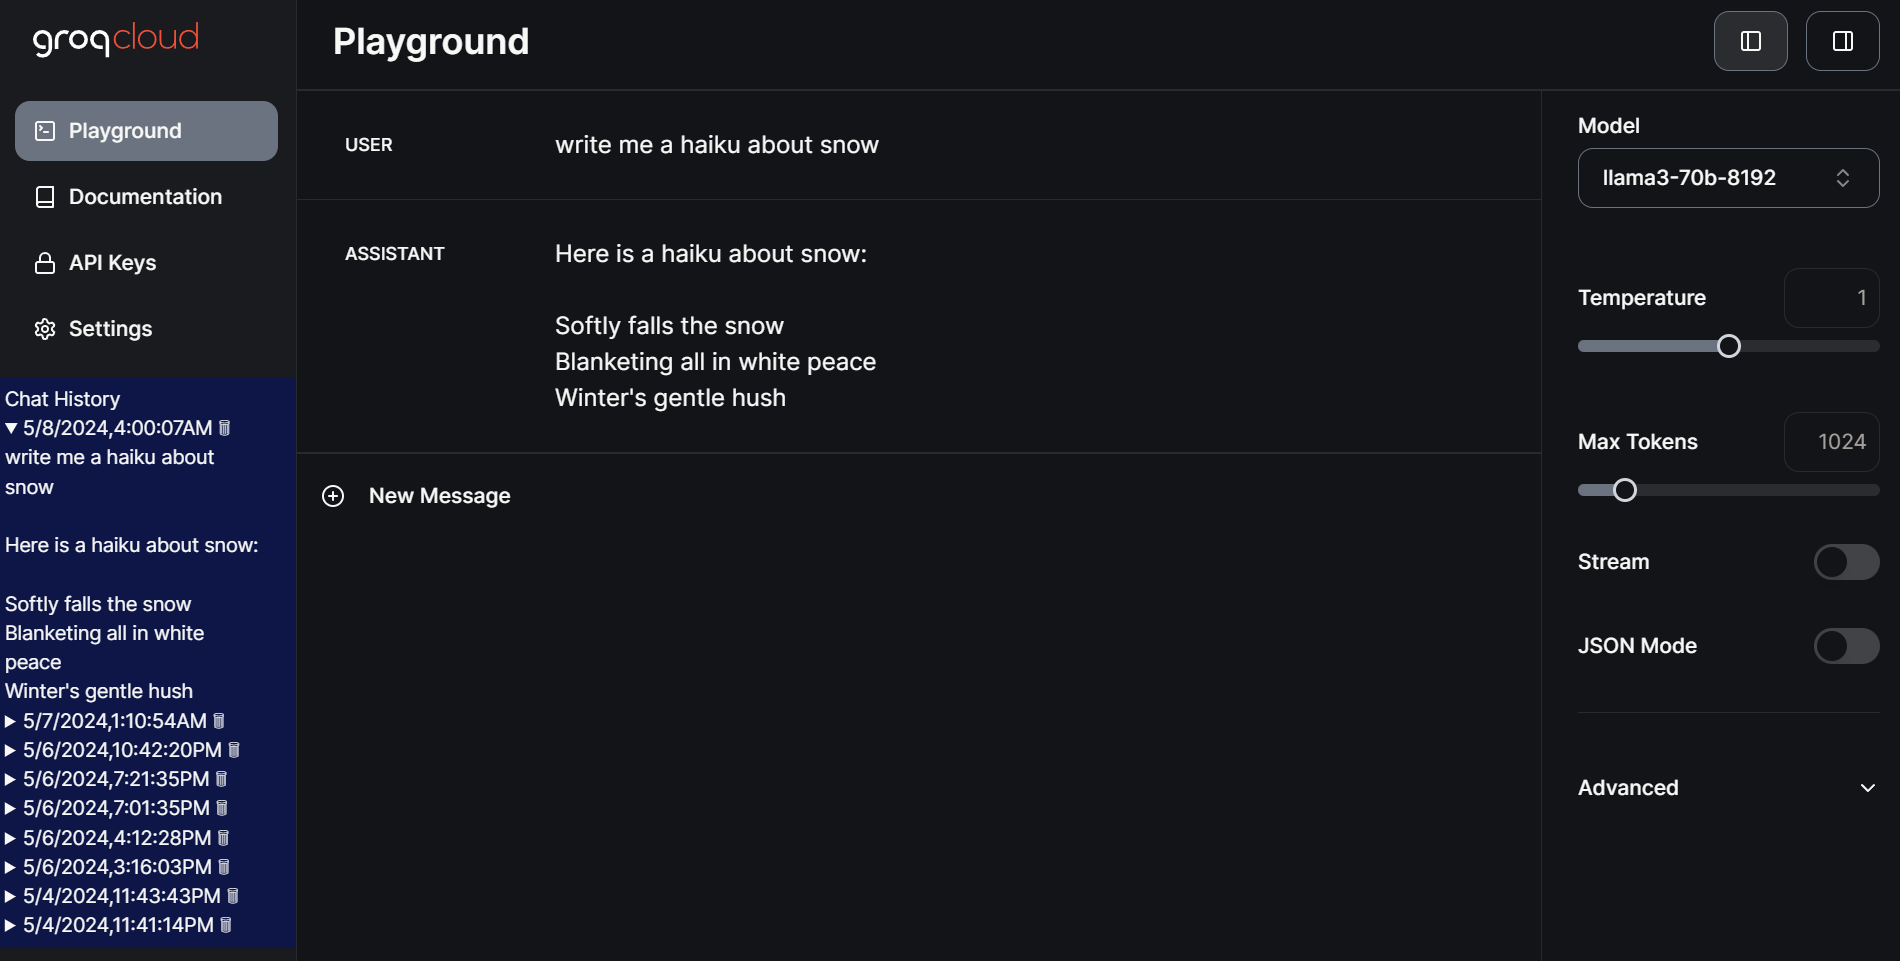
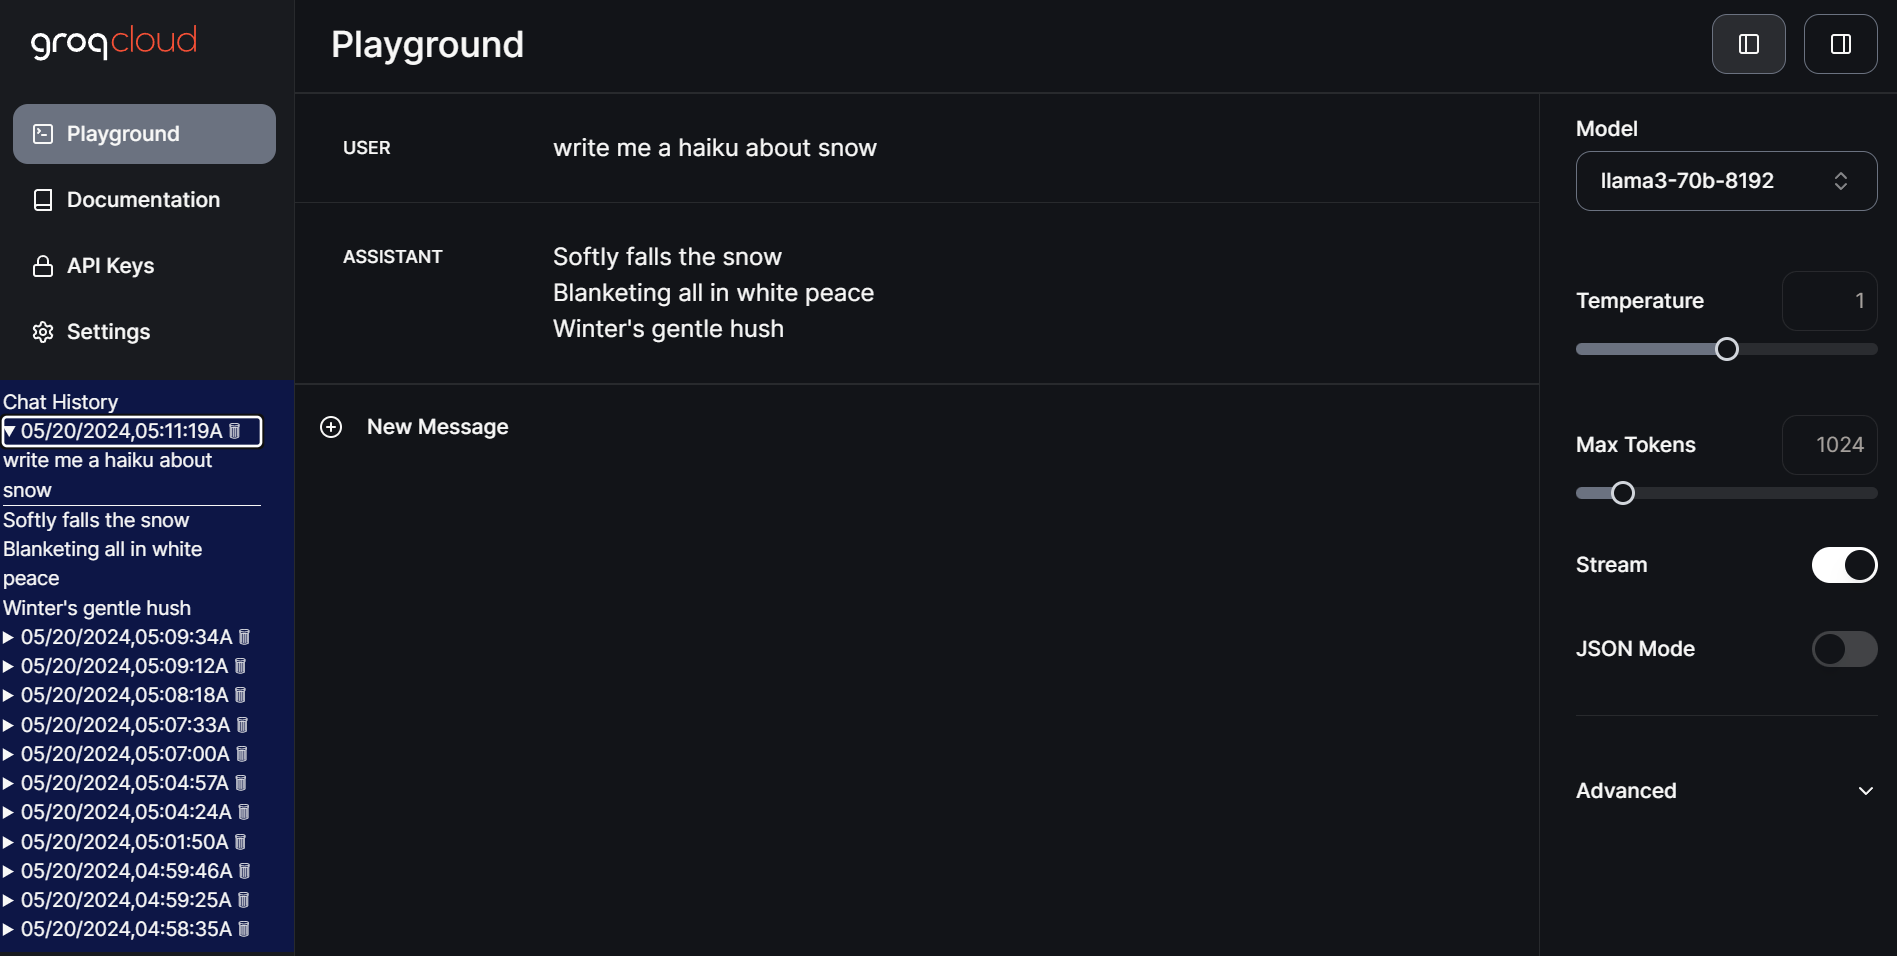
feat(stream) Support appending entries where Streaming tokens is enabled

diff --git a/groqcloud-playground-chat-history.js b/groqcloud-playground-chat-history.js
@@ -1,6 +1,6 @@
 // ==UserScript==
 // @name        Groqcloud Playground Chat History
-// @version     0.0.9
+// @version     0.1.0
 // @description Adds a Chat History on the sidebar of Groqcloud Playground with locally-stored deletable per-session entries
 // @author      Harris Lo
 // @website     https://github.com/hlo-world/groqcloud-playground-chat-history
@@ -14,9 +14,6 @@
 // ==/UserScript==
 
 $(document).ready(function() {
-    // This currently only works when Stream option is disabled
-    $('#toggle-Stream').click();
-
     // Check if dark mode is enabled
     var isDarkMode = $('.dark').length > 0;
 
@@ -25,7 +22,7 @@ $(document).ready(function() {
 
     // Set the formatted date for this session
     var date = new Date();
-    var formattedDate = date.toLocaleString('en-US').replace(/\s/g, '');
+    var formattedDate = date.toLocaleString('en-US', { month: '2-digit', day: '2-digit', year: 'numeric', hour: '2-digit', minute: '2-digit', second: '2-digit' }).replace(/\s/g, '').replace(/M/g, '');
 
     // Set the prefix for GM value store keys
     var keyPrefix = 'Groq';
@@ -110,6 +107,8 @@ $(document).ready(function() {
         }
     `);
 
+    var textSeparation = '<br><hr style="width: 100%; border-color: var(--foreground); border-style: solid;">';
+
     // Function to append textarea content to sidebar when submit request is made
     function addSubmitRequestListener() {
         $('.h-full.overflow-auto').on('keydown', 'textarea.border-input', function(event) {
@@ -132,13 +131,19 @@ $(document).ready(function() {
                     setTimeout(checkGroupsLength, 100);
                     return;
                 }
+                var lastAssistantObject = assistantGroups[assistantGroups.length - 1];
+                // if "●" is shown then completion is not done yet
+                if (lastAssistantObject.textContent.includes("●")) {
+                    setTimeout(checkGroupsLength, 10);
+                    return;
+                }
 
                 var completeNarrative = [];
 
                 for (var i = 0; i < userGroups.length; i++) {
                     var userText = userGroups.eq(i).find('textarea').text().replace(/\n/g, '<br>');
                     var assistantText = assistantGroups.eq(i).find('textarea').text().replace(/\n/g, '<br>');
-                    var interleavedText = (userText || '') + '<br><br>' + (assistantText || '');
+                    var interleavedText = (userText || '') + textSeparation + (assistantText || '');
                     if (!completeNarrative.includes(interleavedText)) {
                         completeNarrative.push(interleavedText);
                     }
@@ -152,7 +157,7 @@ $(document).ready(function() {
                     existingEntry.remove();
                 }
 
-                var flattenedCompleteNarrative = completeNarrative.join('<br><br>')
+                var flattenedCompleteNarrative = completeNarrative.join(textSeparation);
                 $('#groqChatHistorySideBar ul').prepend(createHistoryEntry(formattedDate, flattenedCompleteNarrative));
                 GM_setValue(keyPrefix + formattedDate, flattenedCompleteNarrative);
                 addDeleteHistoryListener();
